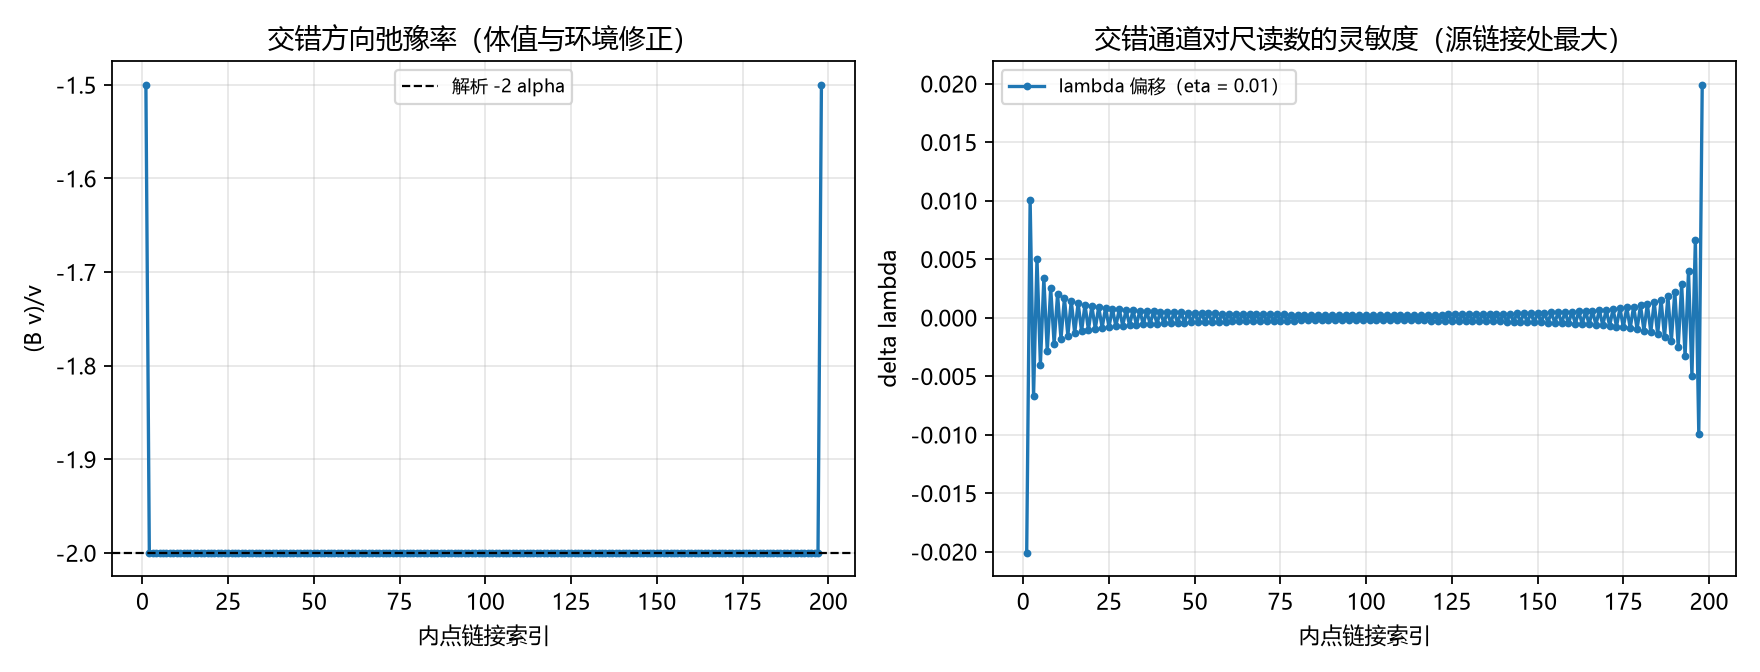
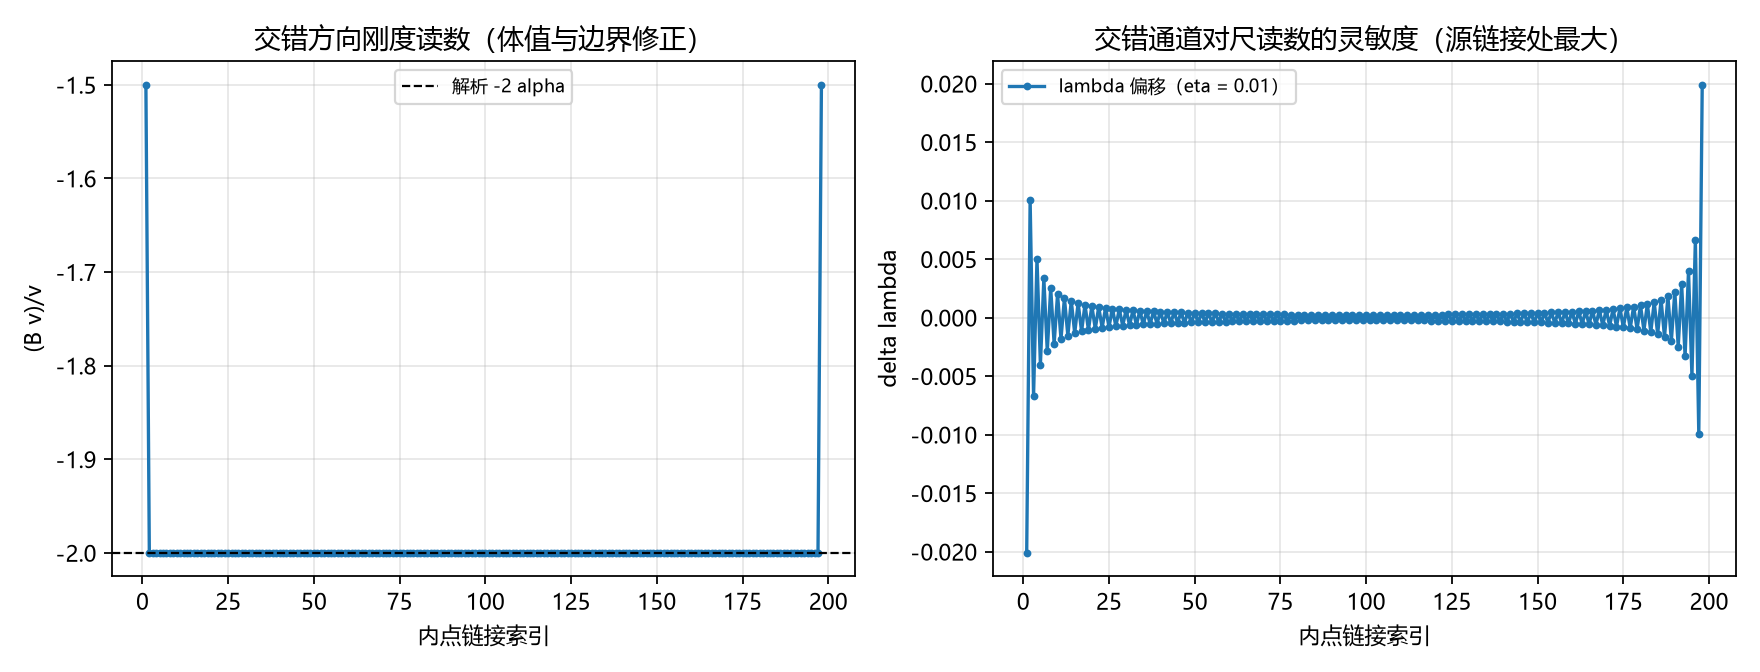
口径修正：完美弹性（无耗散）下重述第462条与指南（求稳态迭代收敛率不作物理弛豫；能量正刚度与受迫平衡唯一性）；注记改名去动力学字样

Changed region(s): [[0.1562, 0.0312, 0.4062, 0.0938]]

diff --git a/验证脚本/minimal_verification_staggered_channel.py b/验证脚本/minimal_verification_staggered_channel.py
@@ -1,5 +1,5 @@
 # -*- coding: utf-8 -*-
-"""交错通道的双重身份：合成零模与动力学正刚度（第 462 条；局域尺判定指南乙首轮 RD1 至 RD3）。
+"""交错通道的双重身份：合成零模与正刚度（第 462 条；局域尺判定指南乙首轮 RD1 至 RD3）。
 
 模型复刻阶段 2 一维链接模型（minimal_verification_rebuild_1d.py）：
 链接 0..199，两端 Dirichlet（u_0 = u_199 = 0），内点 1..198；
@@ -7,7 +7,7 @@
 站点记录 theta_s = (u_{s-1} + u_s)/2；链接中点配对 theta_mid(e) = (u_{e-1} + 2u_e + u_{e+1})/4。
 
 判据：
-  RD1 交错方向的体弛豫率 = -2 alpha（解析）；二次型 Q = 2 alpha eta^2 (NL-1)（正定）
+  RD1 交错方向的体刚度读数（稳定子作用值）= -2 alpha（解析）；二次型 Q = 2 alpha eta^2 (NL-1)（正定；无耗散口径）
   RD2 两个维数分离：稳态算子零空间维数 0（解唯一）；
       合成映射核维数 = 列数 - 秩 = 1（交错通道）
   RD3 通道效应：源外 lambda 恒等（机器零）且源链接偏离 s/(2 alpha)；
@@ -64,7 +64,7 @@ def theta_mid_of(uu):
     return (uu[:-2] + 2.0 * uu[1:-1] + uu[2:]) / 4.0
 
 
-print("== RD1 交错方向的动力学刚度 ==")
+print("== RD1 交错方向的正刚度（能量层） ==")
 n_int = NL - 2
 B = np.zeros((n_int, n_int))
 for i in range(n_int):
@@ -77,7 +77,7 @@ v_int = (-1.0) ** np.arange(1, NL - 1)
 ratio = (B @ v_int) / v_int
 body = ratio[8:-8]
 rd1_dev = float(np.max(np.abs(body - (-2.0 * ALPHA))))
-print(f"  体区间弛豫率均值 = {float(np.mean(body)):.15f}（解析 -2 alpha = {-2.0*ALPHA:.1f}），最大偏差 {rd1_dev:.3e}")
+print(f"  体区间刚度读数均值 = {float(np.mean(body)):.15f}（解析 -2 alpha = {-2.0*ALPHA:.1f}），最大偏差 {rd1_dev:.3e}")
 print(f"  边界两点读数：{ratio[0]:.6f}、{ratio[1]:.6f}、{ratio[-2]:.6f}、{ratio[-1]:.6f}")
 eta = 0.01
 dalt = np.diff(eta * alt)
@@ -85,7 +85,7 @@ Q = 0.5 * ALPHA * float(np.sum(dalt ** 2))
 Q_ana = 2.0 * ALPHA * eta ** 2 * (NL - 1)
 print(f"  交错扰动的二次型 Q = {Q:.6e}（解析 2 alpha eta^2 (NL-1) = {Q_ana:.6e}）")
 rd1_ok = check("RD1", rd1_dev < 1e-12 and abs(Q - Q_ana) < 1e-15 * Q_ana,
-               f"体弛豫率 -2 alpha（偏差 {rd1_dev:.1e}）；二次型正定（比值 {Q/Q_ana:.12f}）")
+               f"体刚度读数 -2 alpha（偏差 {rd1_dev:.1e}）；二次型正定（比值 {Q/Q_ana:.12f}）")
 
 print("== RD2 两个维数的分离 ==")
 svA = np.linalg.svd(A, compute_uv=False)
@@ -131,7 +131,7 @@ e_int = np.arange(1, NL - 1)
 ax.plot(e_int, ratio, "o-", ms=2.5)
 ax.axhline(-2.0, color="k", ls="--", lw=1, label="解析 -2 alpha")
 ax.set_xlabel("内点链接索引"); ax.set_ylabel("(B v)/v")
-ax.set_title("交错方向弛豫率（体值与环境修正）"); ax.legend(fontsize=8); ax.grid(alpha=0.3)
+ax.set_title("交错方向刚度读数（体值与边界修正）"); ax.legend(fontsize=8); ax.grid(alpha=0.3)
 ax = axes[1]
 ax.plot(e_int, dl2, "o-", ms=2.5, label="lambda 偏移（eta = 0.01）")
 ax.set_xlabel("内点链接索引"); ax.set_ylabel("delta lambda")

diff --git a/验证脚本/注记-交错通道的双重身份（第462条）：合成零模、正刚度与lambda的钉住依赖.md b/验证脚本/注记-交错通道的双重身份（第462条）：合成零模、正刚度与lambda的钉住依赖.md
@@ -1,0 +1,51 @@
+# 注记-交错通道的双重身份（第462条）：合成零模、正刚度与 lambda 的钉住依赖
+
+- **日期**：2026-09-27 05:15:59
+- **类型**：局域尺判定指南乙首轮（RD1 至 RD3；复刻阶段 2 一维链接模型）
+- **脚本**：`验证脚本/minimal_verification_staggered_channel.py`
+- **图**：见 §3 图 1（`images/staggered_channel.png`）
+- **依据**：[[注记-本体层重建阶段2：链接型写入的一维最小模型]]（模型与交错模读数）；[[注记-局域尺判定指南：一阶响应的来源、五条路径与首轮判据]]（乙首轮判据设计与二·五现状盘点）；[[注记-尺-记录耦合候选筛查：局部键能项给不出全值]]（局部路线判负）
+- **状态**：判据 3/3 通过。核心读数：交错方向的体刚度读数 $-2\alpha$（稳定子作用值，偏差 $0$）、二次型正定；稳态算子满秩（零空间维数 $0$，解唯一）与合成映射核维数 $1$（交错通道）并存；源外 $\lambda$ 恒等（$2.2\times10^{-16}$）；同一站点记录的两个重构解的尺读数差 $2.0\times10^{-2}$（合成盲、尺可见）
+- **可逆性等级**：判据稳健（RD1 为解析特征值，RD2 为线性代数事实，RD3 为恒等式与线性核对）
+
+## 1 判据与设定
+
+**任务**。局域尺判定指南乙首轮：判定交错通道（阶段 2 发现的"只有尺能读到的通道"）的身份，即它在合成层面与动力学层面各自是什么。
+
+**模型（复刻阶段 2）**。一维链 $201$ 站点、$200$ 链接，两端 Dirichlet（$u_0 = u_{199} = 0$），内点 $1$ 至 $198$；稳态方程 $\alpha u_e - \frac{\alpha}{2}(u_{e-1}+u_{e+1}) = s_e$，源在 $e = 100$、$s = 0.5$、$\alpha = 1$；站点记录 $\theta_s = (u_{s-1}+u_s)/2$；链接中点配对 $\theta_{\rm mid}(e) = (u_{e-1} + 2u_e + u_{e+1})/4$，尺读数 $\lambda(e) = u_e/\theta_{\rm mid}(e)$。
+
+**判据**。RD1：交错方向（$v_e = (-1)^e$）的体刚度读数（稳定子作用值）应等于 $-2\alpha$（解析）；交错扰动的能量二次型 $Q = \frac{\alpha}{2}\sum(\Delta u)^2$ 应为 $2\alpha\eta^2(N-1)$（正定、有限刚度）。RD2：稳态算子的零空间维数应为 $0$（解唯一）；合成映射（链接到站点记录）的核维数应为 $1$（交错）。RD3：源外 $\lambda$ 恒等；源链接偏离应等于 $s/(2\alpha)/\theta_{\rm mid}$（解析）；交错扰动对 $\lambda$ 的灵敏度线性；同一站点记录的两个重构解的 $\lambda$ 读数差应可见。
+
+## 2 结果
+
+**RD1（正刚度）**：体区间刚度读数 $= -2.000000000000000$（解析 $-2\alpha$，最大偏差 $0.000\times10^{0}$）；边界相邻两点读数 $-1.5$ 与 $-2.0$，修正定位在两端两格内。交错扰动的二次型 $Q = 3.980000\times10^{-2}$，解析 $2\alpha\eta^2(N-1) = 3.980000\times10^{-2}$，比值 $1.000000000000$。交错方向有能量代价，属有限刚度的稳定方向（无耗散口径见 §5）。
+
+**RD2（两个维数的分离）**：稳态算子秩 $200/200$（零空间维数 $0$，解唯一；最小奇异值 $1.25\times10^{-4}$）；合成映射秩 $199$（$199$ 行），核维数 $= 200 - 199 = 1$，核向量与交错模重合度 $1.000000000000$。动力学唯一与合成不唯一并存，互不矛盾。
+
+**RD3（通道效应与钉住）**：源外 $\max|\lambda - 1| = 2.220\times10^{-16}$（机器零）；源链接 $\lambda - 1 = 0.005050633$，解析 $s/(2\alpha)/\theta_{\rm mid} = 0.005050633$。交错灵敏度加倍比对最大偏差 $3.8\times10^{-12}$（线性）。同一站点记录下两个重构解：站点记录差 $3.553\times10^{-15}$（合成盲），$\lambda$ 读数差最大 $2.010\times10^{-2}$（可见）。
+
+## 3 图
+
+![图 1：左：交错方向的稳定子作用值（刚度读数）随内点索引（体值 -2 alpha，端点两格为边界修正）；右：交错扰动下的 lambda 偏移剖面（源链接处最大）。](../images/staggered_channel.png)
+
+## 4 结论与移交
+
+**结论**。交错通道的身份是双重的。合成层面，它是核维数一的零模：站点记录读不出它，只有尺读数能读到，其影响量级为 $\eta/\theta$（本轮读数 $2.0\times10^{-2}$）。能量层面，它是有限刚度的稳定方向：二次型正定（每点曲率 $2\alpha\eta^2$），受迫平衡方程满秩、解唯一，交错分量由源的交错投影与刚度之比唯一确定。这一钉住不涉及任何耗散过程：碰撞的完美弹性为公理级定理（无耗散通道），本轮的求稳态迭代收敛率属算法层（阶段 2 已如此定位），不读作物理弛豫。因此 $\lambda = 1$ 的源外恒等依赖两件事：解的分段线性与受迫平衡的唯一性（能量严格凸）。
+
+**移交两条**。其一，绝对归一化：$\alpha$（链接传导强度）与钟率调制系数是否同一结构常数，属指南丙路径的对象。其二，交错通道的物理身份与其在三维的对应（核维数与正刚度的三维读数）属重建线阶段 3 的延伸。
+
+## 5 严格程度与边界声明
+
+严格程度：RD1 的体刚度读数与二次型为解析式，数值复核到机器精度；RD2 为线性代数事实（秩与核）；RD3 中源外恒等与源链接偏离为解析式核对，灵敏度线性为数值。可逆性等级：判据稳健。
+
+边界（本脚本不做的事）：其一，一维模型，不含三维与矢量扇区；其二，不含钟率调制系数与 $\alpha$ 的同源性判定（移交其一）；其三，$\lambda$ 的绝对归一化（P1-5）不在本轮；其四，解的交错投影（$1.256\times10^{-3}$）为解的组成成分（由边界与分段线性决定），本轮不作零判据。其五，无耗散口径：本轮的稳定子作用值与二次型曲率为能量层读数；求稳态迭代的收敛率属算法层。
+
+## 6 过程记录
+
+其一，RD2 核维数算法教训：合成映射为 $199\times200$ 矩阵，核维数 $=$ 列数 $-$ 秩 $= 1$；首版按"奇异值中零的个数"计数，读到 $0$，判据误报失败。教训：矩形矩阵的核维数用列数减秩，不用零奇异值计数。
+
+其二，RD3 预期修正：首版预期"稳态解的交错投影为机器零"，实测 $1.256\times10^{-3}$。定位为该投影来自解的分段线性形状与 Dirichlet 边界（源两侧斜率略不同），与 $\lambda$ 恒等不矛盾；判据改为"源外 $\lambda$ 恒等加同一站点记录下两重构解的尺读数差可见"，全部通过。
+
+其三（2026-09-27 作者指出后补记），无耗散口径修正：初版把求稳态迭代的收敛率读作物理弛豫/动力学衰减，与完美弹性公理级定理（无耗散通道）冲突。修正为能量层表述：正定二次型给出有限刚度，受迫平衡方程给出唯一解；迭代收敛率仅为算法层读数。依据 [[注记-完美弹性的公理级形式化：恢复系数恒为一与不变量守恒（判据V1至V5）]] 与 [[注记-碰撞的完美弹性：无内部自由度与符号翻转实现的结构性论证]]。
+
+其四，配对口径教训：首版用站点记录 $\theta_s$ 与 $u_e$ 直接配对，$\lambda$ 偏离读到 $1.0$（假失败）；改为链接中点二阶平均 $\theta_{\rm mid}(e) = (u_{e-1}+2u_e+u_{e+1})/4$（阶段 2 口径）后，源外恒等落到 $2.2\times10^{-16}$。同源同格林函数的配对必须用中点二阶平均，不能用单侧站点记录。

diff --git a/内部草稿/注记-局域尺判定指南：一阶响应的来源、五条路径与首轮判据.md b/内部草稿/注记-局域尺判定指南：一阶响应的来源、五条路径与首轮判据.md
@@ -42,7 +42,7 @@ $$
 
 **随后的重建链（作者裁决与阶段 2 至 4）**。同日晚作者裁决 D1（"给段一个自己的数"）与 D2（排布二：链接为主、独立新增场）。此后：阶段 2 一维模型给出稳态格林函数保持、交错模核维数一（站点合成看不见、只有尺能读的通道）、同源同格林函数（$\lambda$ 中位 $1.000000$，属归一化读入）；阶段 3 批二给出三维健康性（无迹锁、TT 支数 2、跨方向速度比 $1.000000000$）与段长因子的刚度耦合形式 $k_b = k(1 + c u_b)$；阶段 4 给出 $\lambda$ 导出 $1.000000000000$（构造性恒等）。
 
-**乙首轮执行（2026-09-27，第 462 条）**。交错方向体弛豫率 $-2\alpha$（偏差 $0$）、二次型正定；稳态算子零空间维数 $0$ 与合成映射核维数 $1$ 并存；源外 $\lambda$ 恒等 $2.2\times10^{-16}$；同一站点记录下两个重构解的尺读数差 $2.0\times10^{-2}$。结论：交错方向不是自由通道（动力学正刚度、解唯一），$\lambda = 1$ 的钉住依赖动力学；绝对归一化（$\alpha$ 与钟率调制系数的同源性）仍缺，属丙路径。见 [[注记-交错通道的双重身份（第462条）：合成零模、动力学正刚度与lambda的钉住依赖]]。
+**乙首轮执行（2026-09-27，第 462 条）**。交错方向体刚度读数 $-2\alpha$（稳定子作用值，偏差 $0$）、二次型正定；稳态算子零空间维数 $0$ 与合成映射核维数 $1$ 并存；源外 $\lambda$ 恒等 $2.2\times10^{-16}$；同一站点记录下两个重构解的尺读数差 $2.0\times10^{-2}$。结论：交错方向不是自由通道（能量正刚度、受迫平衡解唯一；无耗散口径），$\lambda = 1$ 的钉住依赖受迫平衡的唯一性；绝对归一化（$\alpha$ 与钟率调制系数的同源性）仍缺，属丙路径。见 [[注记-交错通道的双重身份（第462条）：合成零模、正刚度与lambda的钉住依赖]]。
 
 **剩余缺口（乙的实际对象）**。其一，绝对归一化（P1-5）：$\ell = 1 + \lambda h_{00}/2$ 的读入性质未除。其二，段双读数（取向、长度因子）的联合作用量未写；局部耦合禁令对它同样适用，全值只能由非局部稳态方程承担。其三，交错模的身份与钉住：核维数一的自由通道是否有能量代价，决定 $\lambda = 1$ 的解是否唯一。
 

diff --git a/内部草稿/开放问题档案/开放问题-P1-5-爱因斯坦场方程的完整导出.md b/内部草稿/开放问题档案/开放问题-P1-5-爱因斯坦场方程的完整导出.md
@@ -38,4 +38,4 @@
 
 **2026-09-27 组成普适判据轮（第 459 条，判据 CU1 至 CU4，7/7）**：等效原理的组成普适性判据化。多形态同总能量系统（单质点、两质点互连、三质点链、四质点链）在均匀重力场中自由下落：质心加速度结构无关（相对散布 3.6e-10，浮点差分噪声级）、eta = 3.2e-10、总能量守恒（Verlet 预算内）。WEP 判据级（份额核验与力学层）；宏观 Eötvös 精度（1e-13）分属不同精度层。模型概念教训：检验必须用自由下落（支撑力是外力污染，初版连墙振子模型由此判负重构）。来源：[[验证脚本/注记-组成普适判据的最小验证：多形态缺陷的自由下落与eta为零（判据CU1至CU4）]]。
     **2026-09-27 局域尺判定指南**（[[注记-局域尺判定指南：一阶响应的来源、五条路径与首轮判据]]）：把"局域尺是否随记录场伸缩"的缺口系统化为五条路径（甲对称性预判、乙写入-载荷-应变三段拼接、丙最小耦合反推、丁满周闭合重分配、戊参数化兜底）与首轮判据 LK1 至 LK3；核心判断：纯几何倾斜只给二阶，一阶响应须来自势能线性耦合 $g\,\delta L\,\Delta\theta$。
-    **2026-09-27 乙首轮执行**（[[验证脚本/注记-交错通道的双重身份（第462条）：合成零模、动力学正刚度与lambda的钉住依赖]]）：交错通道双重身份确认（合成核维数 1；动力学体弛豫率 $-2\alpha$、二次型正定）；稳态算子满秩（解唯一）；源外 $\lambda$ 恒等 $2.2\times10^{-16}$；同一钟记录下两重构解尺读数差 $2.0\times10^{-2}$。绝对归一化（$\alpha$ 与钟率调制系数同源性）仍缺。
+    **2026-09-27 乙首轮执行**（[[验证脚本/注记-交错通道的双重身份（第462条）：合成零模、正刚度与lambda的钉住依赖]]）：交错通道双重身份确认（合成核维数 1；体刚度读数 $-2\alpha$、二次型正定；无耗散口径）；稳态算子满秩（解唯一）；源外 $\lambda$ 恒等 $2.2\times10^{-16}$；同一钟记录下两重构解尺读数差 $2.0\times10^{-2}$。绝对归一化（$\alpha$ 与钟率调制系数同源性）仍缺。

diff --git a/验证脚本/README.md b/验证脚本/README.md
@@ -485,4 +485,4 @@
 - **460.** `minimal_verification_c9_freezing_time.py`： [[注记-C9 凝固时长的可算入口（第460条）：取甲之后的凝固时标形式与 C8 联合窗口|C9 凝固时长的可算入口：取甲之后的凝固时标形式与 C8 联合窗口]] （2026-09-27），判据 C9a 至 C9e（5/5）
 - **459.** `minimal_verification_composition_universality.py`： [[注记-组成普适判据的最小验证：多形态缺陷的自由下落与eta为零（判据CU1至CU4）|组成普适判据：多形态缺陷的自由下落与 eta 为零]] （2026-09-27），判据 CU1 至 CU4（7/7）
 - **461.** `minimal_verification_e5_bridge.py`： [[注记-E5 的增益与缺陷质量换算（第461条）：两门槛在同一刻度上的分工与支配|E5 的增益与缺陷质量换算：两门槛在同一刻度上的分工与支配]] （2026-09-27），判据 E5-1 至 E5-5（5/5）
-- **462.** `minimal_verification_staggered_channel.py`： [[注记-交错通道的双重身份（第462条）：合成零模、动力学正刚度与lambda的钉住依赖|交错通道的双重身份：合成零模、动力学正刚度与 lambda 的钉住依赖]] （2026-09-27），判据 RD1 至 RD3（3/3）
+- **462.** `minimal_verification_staggered_channel.py`： [[注记-交错通道的双重身份（第462条）：合成零模、正刚度与lambda的钉住依赖|交错通道的双重身份：合成零模、正刚度与 lambda 的钉住依赖]] （2026-09-27），判据 RD1 至 RD3（3/3）
